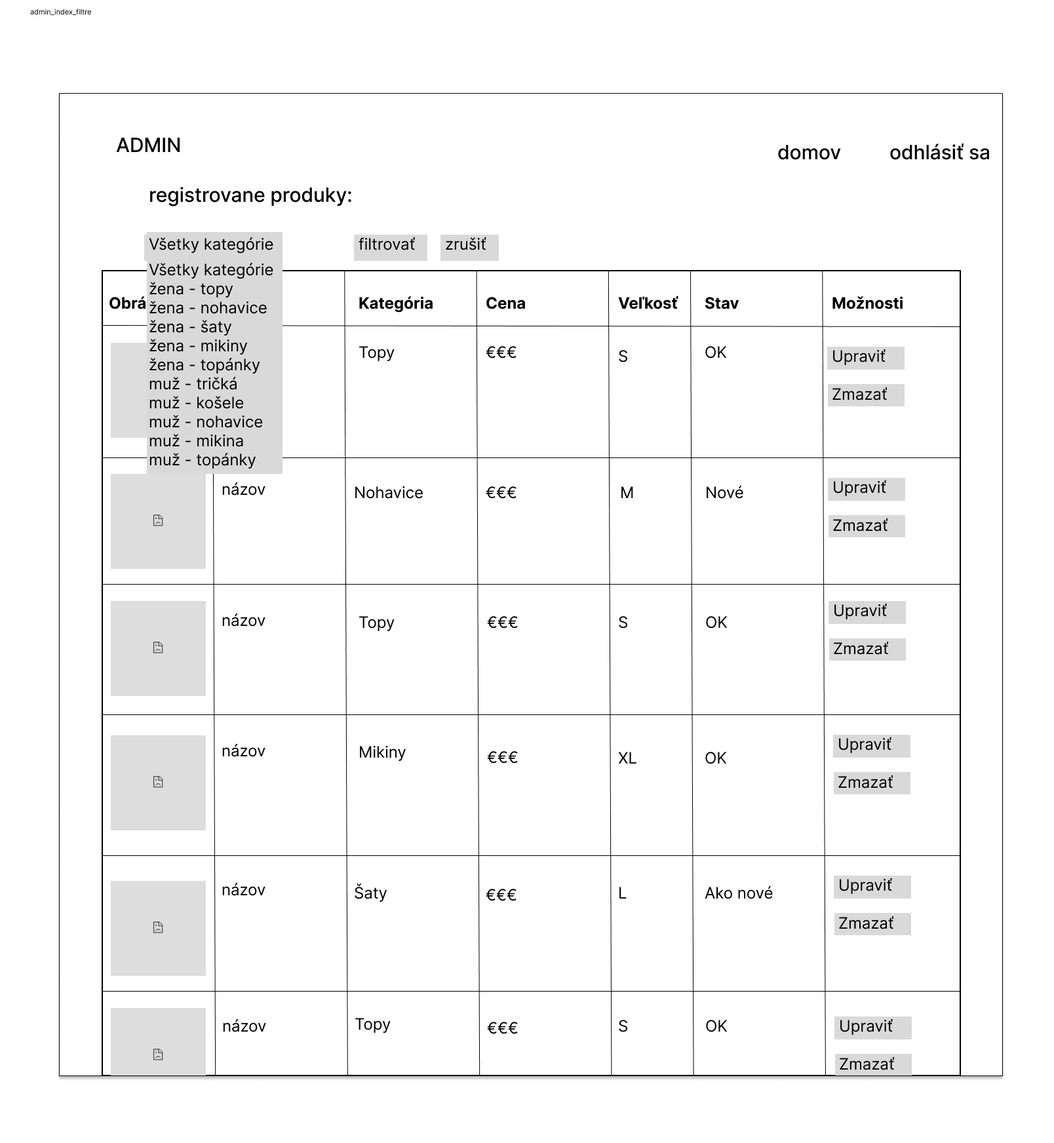
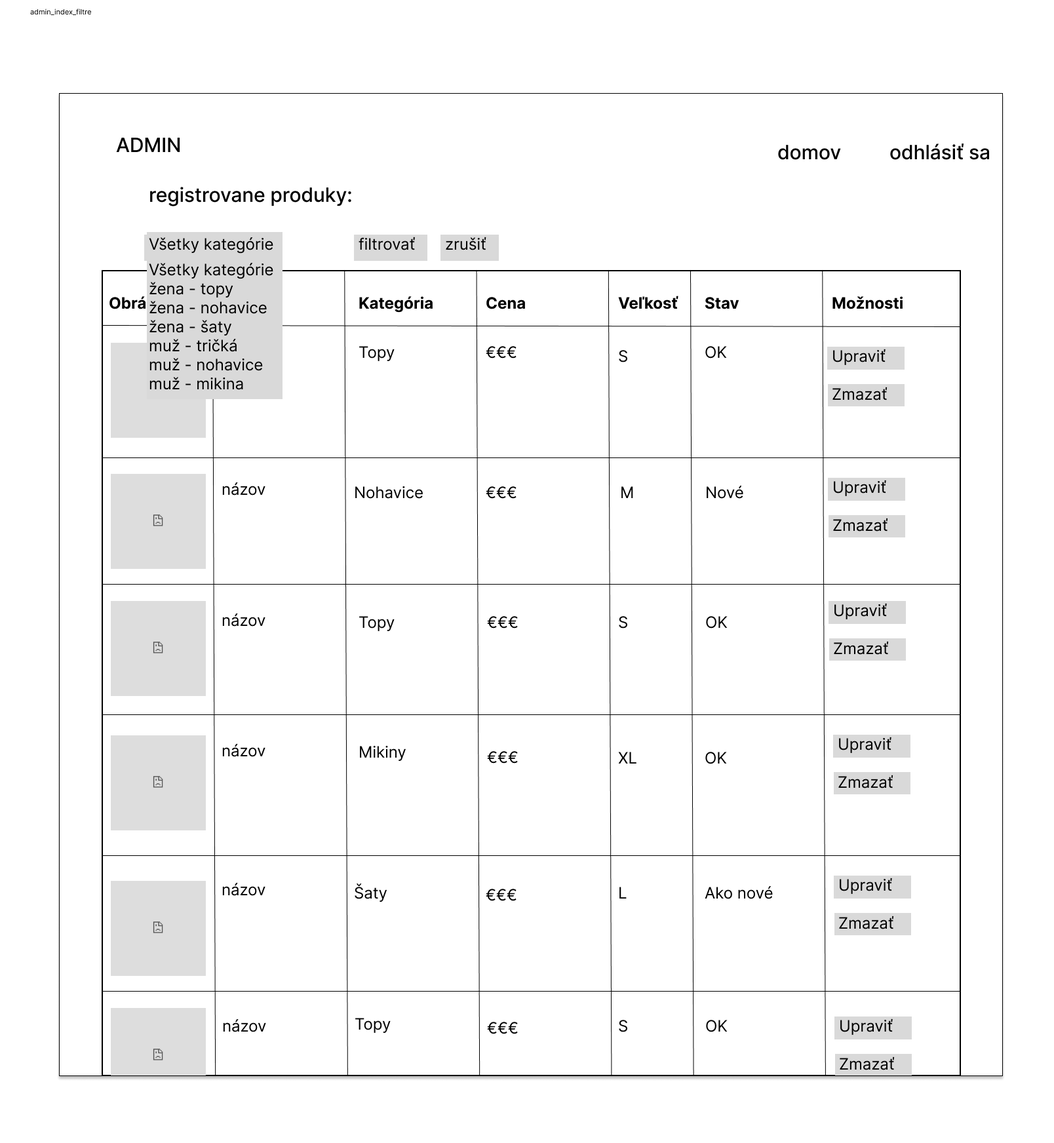
zmena - menej kategórií, zmené šablóny, úprava filtrov + min,max do filtru ceny

Changed region(s): [[0.1244, 0.2787, 0.2799, 0.4335]]

diff --git a/second_chance/resources/css/kosik.css b/second_chance/resources/css/kosik.css
@@ -110,25 +110,6 @@
   font-size: 15px;
 }
 
-.discount-code {
-  margin-top: 30px;
-  padding: 0 8px;
-  font-weight: bold;
-}
-
-.discount-code label {
-  margin-right: 8px;
-}
-
-.discount-code input {
-  background-color: #efece9b1;
-  border: 1px solid black;
-  min-height: 40px;
-  padding: 0 12px;
-  border-radius: 8px;
-  max-width: 220px;
-  width: 100%;
-}
 
 /* TABLET */
 @media (max-width: 1420px) {
@@ -213,13 +194,4 @@
     font-size: 16px;
   }
 
-  .discount-code {
-    padding: 0;
-  }
-
-  .discount-code input {
-    display: block;
-    max-width: 100%;
-    margin-top: 10px;
-  }
 }

diff --git a/second_chance/database/seeders/DatabaseSeeder.php b/second_chance/database/seeders/DatabaseSeeder.php
@@ -27,7 +27,7 @@ class DatabaseSeeder extends Seeder
         $this->call(KategoriaSeeder::class);
 
         $produkty = [
-            //žena - topy 1
+            //žena - topy - kategória 1
             ['nazov' => 'Tričko Nike', 'znacka' => 'Nike', 'kategoria_id' => 1, 'cena' => 7.90, 'velkost' => 'XS', 'farba' => 'biela', 'stav' => 'OK', 'obrazok' => 'obrazky/oblecenie_obrazky/tricko_nike.jpg',
             'miniatury' => [
                 'obrazky/oblecenie_obrazky/tricko_nike_mini_01.jpg',
@@ -67,7 +67,7 @@ class DatabaseSeeder extends Seeder
             ],
             'popis' => 'Štýlový hnedý kabát značky Mango s klasickým rovným strihom, ktorý nikdy nevyjde z módy. Kvalitný huňatý materiál poskytuje príjemné teplo aj v chladnejších dňoch bez toho, aby ste sa cítili stiesnene. Kabát má dvojradové zapínanie na gombíky, dve priestranné bočné vrecká a jemne štruktúrovaný povrch, ktorý pôsobí luxusným dojmom. Hodí sa rovnako dobre do práce aj na víkendový výlet. Nosený len niekoľkokrát, stav ako nový – bez akýchkoľvek poškodení, škvŕn či deformácií.'],
 
-            //žena - nohavice 2
+            //žena - nohavice - kategória 2
             ['nazov' => 'Rifle Levis', 'znacka' => 'Levis', 'kategoria_id' => 2, 'cena' => 22.00, 'velkost' => 'M', 'farba' => 'modrá', 'stav' => 'ako nové', 'obrazok' => 'obrazky/oblecenie_obrazky/rifle_levis.jpg',
             'miniatury' => [
                 'obrazky/oblecenie_obrazky/rifle_levis_mini_01.jpg',
@@ -86,7 +86,7 @@ class DatabaseSeeder extends Seeder
             ],
             'popis' => 'Dámske maskáčové nohavice Pull&Bear sú štýlový a pohodlný kúsok na každodenné nosenie. Príjemný materiál spolu s moderným strihom poskytuje komfort počas celého dňa. Nohavice majú praktické vrecká a maskáčový vzor dodáva outfitu trendy streetwear vzhľad. Jednoducho sa kombinujú s tričkom, mikinou alebo bundou. Používané, ale zachovalé vo veľmi dobrom stave – bez dier, fľakov alebo výrazného opotrebovania.'],
 
-            //žena - šaty 3
+            //žena - šaty - kategória 3
             ['nazov' => 'Šaty H&M', 'znacka' => 'H&M', 'kategoria_id' => 3, 'cena' => 12.00, 'velkost' => 'S', 'farba' => 'čierna', 'stav' => 'nové', 'obrazok' => 'obrazky/oblecenie_obrazky/saty_H&M.jpg',
             'miniatury' => [
                 'obrazky/oblecenie_obrazky/saty_H&M_mini_01.jpg',
@@ -105,37 +105,8 @@ class DatabaseSeeder extends Seeder
             ],
             'popis' => 'Dámske červené šaty H&M sú elegantný a výrazný kúsok vhodný na spoločenské udalosti aj bežné nosenie počas teplejších dní. Ľahký a príjemný materiál sa pohodlne nosí, zatiaľ čo ženský strih pekne zvýrazní postavu. Jednoduchý dizajn dopĺňa sýta červená farba, ktorá pôsobí štýlovo a ľahko sa kombinuje s doplnkami. Šaty sú používané, ale vo veľmi dobrom stave – bez dier, fľakov alebo výrazného opotrebovania.'],
 
-            //žena - mikiny 4
-            ['nazov' => 'Mikina Adidas', 'znacka' => 'Adidas', 'kategoria_id' => 4, 'cena' => 8.50, 'velkost' => 'S', 'farba' => 'modrá', 'stav' => 'použité', 'obrazok' => 'obrazky/oblecenie_obrazky/mikina_adidas.png',
-            'miniatury' => [
-                'obrazky/oblecenie_obrazky/mikina_adidas_mini_01.jpg',
-                'obrazky/oblecenie_obrazky/mikina_adidas_mini_02.jpg',
-                'obrazky/oblecenie_obrazky/mikina_adidas_mini_03.jpg',
-                'obrazky/oblecenie_obrazky/mikina_adidas_mini_04.jpg',
-            ],
-            'popis' => 'Pohodlná modrá mikina značky Adidas s charakteristickými troma pruhmi na rukávoch. Mäkký flísový materiál zvnútra zahreje a zároveň je dostatočne priedušný na aktívne nosenie počas celého dňa. Mikina má praktické vrecko vpredu a stahovateľnú kapucňu. Voľnejší strih umožňuje pohodlný pohyb pri športe aj relaxe. Modrá farba je svieža a ľahko sa kombinuje s čiernou, bielou aj sivou. Použitá, ale starostlivo udržiavaná – bez poškodení, dier ani vybliednutia.'],
-
-            ['nazov' => 'Mikina Reserved', 'znacka' => 'Reserved', 'kategoria_id' => 4, 'cena' => 10.90, 'velkost' => 'M', 'farba' => 'žltá', 'stav' => 'použité', 'obrazok' => 'obrazky/oblecenie_obrazky/mikina_reserved_zlta.png',
-            'miniatury' => [
-                'obrazky/oblecenie_obrazky/mikina_reserved_zlta_mini_01.png',
-                'obrazky/oblecenie_obrazky/mikina_reserved_zlta_mini_02.png',
-                'obrazky/oblecenie_obrazky/mikina_reserved_zlta_mini_03.png',
-                'obrazky/oblecenie_obrazky/mikina_reserved_zlta_mini_04.png',
-            ],
-            'popis' => 'Dámska žltá mikina Reserved je pohodlný a štýlový kúsok vhodný na každodenné nosenie. Mäkký materiál príjemne zahreje a zároveň poskytuje dostatok komfortu počas celého dňa. Mikina má klasický strih s kapucňou a predným vreckom, čo ju robí praktickou aj funkčnou. Výrazná žltá farba oživí každý outfit a ľahko sa kombinuje s džínsami alebo legínami. Používaná, ale zachovalá vo veľmi dobrom stave – bez dier, fľakov alebo výrazného opotrebovania.'],
-
-            //žena - topánky 5
-            ['nazov' => 'Topánky Vans', 'znacka' => 'Vans', 'kategoria_id' => 5, 'cena' => 15.90, 'velkost' => 'EU 38', 'farba' => 'zelená', 'stav' => 'ok', 'obrazok' => 'obrazky/oblecenie_obrazky/topanky_vans.jpg',
-            'miniatury' => [
-                'obrazky/oblecenie_obrazky/topanky_vans_mini_01.jpg',
-                'obrazky/oblecenie_obrazky/topanky_vans_mini_02.jpg',
-                'obrazky/oblecenie_obrazky/topanky_vans_mini_03.jpg',
-                'obrazky/oblecenie_obrazky/topanky_vans_mini_04.jpg',
-            ],
-            'popis' => 'Ikonické zelené tenisky značky Vans v klasickom modeli Old Skool s charakteristickým bočným pruhom. Pevná plátená časť a odolná gumová podrážka zaručujú dlhú životnosť a pohodlie pri každodennom nosení. Tenisky majú univerzálny streetwear štýl, ktorý sa hodí k rifľam, šatám, šortkám aj sukni. Zelená farba je originálna a vyčnieva z davu. Vnútorná stielka poskytuje príjemné tlmenie pri chôdzi. Použité v dobrom stave – podrážka neopotrebovaná.'],
-
-            //muž - tričká 6
-            ['nazov' => 'Tričko Nike', 'znacka' => 'Nike', 'kategoria_id' => 6, 'cena' => 9.90, 'velkost' => 'L', 'farba' => 'biela', 'stav' => 'ako nové', 'obrazok' => 'obrazky/oblecenie_obrazky/tricko_nike.jpg',
+            //muž - tričká - kategória 4
+            ['nazov' => 'Tričko Nike', 'znacka' => 'Nike', 'kategoria_id' => 4, 'cena' => 9.90, 'velkost' => 'L', 'farba' => 'biela', 'stav' => 'ako nové', 'obrazok' => 'obrazky/oblecenie_obrazky/tricko_nike.jpg',
             'miniatury' => [
                 'obrazky/oblecenie_obrazky/tricko_nike_mini_01.jpg',
                 'obrazky/oblecenie_obrazky/tricko_nike_mini_02.jpg',
@@ -144,27 +115,8 @@ class DatabaseSeeder extends Seeder
             ],
             'popis' => 'Pánske biele tričko Nike s veľkým logom na hrudi – klasický kúsok, ktorý nechýba v šatníku žiadneho muža. Ľahký priedušný materiál odvádza vlhkosť od tela čo ho robí ideálnym na šport aj bežné nosenie. Strih regular fit poskytuje dostatok priestoru pre pohodlný pohyb bez toho, aby tričko pôsobilo príliš voľne. Okrúhly výstrih je klasický a vždy moderný. Hodí sa k akýmkoľvek nohaviciam – rifľam, teplákom aj kraťasom. Stav ako nové – minimálne nosené, bez akýchkoľvek poškodení alebo vybliednutia.'],
 
-            //muž - košele 7
-            ['nazov' => 'Tričko Nike', 'znacka' => 'Nike', 'kategoria_id' => 7, 'cena' => 7.90, 'velkost' => 'M', 'farba' => 'biela', 'stav' => 'OK', 'obrazok' => 'obrazky/oblecenie_obrazky/tricko_nike.jpg',
-            'miniatury' => [
-                'obrazky/oblecenie_obrazky/tricko_nike_mini_01.jpg',
-                'obrazky/oblecenie_obrazky/tricko_nike_mini_02.jpg',
-                'obrazky/oblecenie_obrazky/tricko_nike_mini_03.jpg',
-                'obrazky/oblecenie_obrazky/tricko_nike_mini_04.jpg',
-            ],
-            'popis' => 'Jednoduché biele tričko Nike vhodné na každodenné nosenie aj ľahký šport. Kvalitná bavlna je mäkká na dotyk a zároveň odolná voči opakovanému praniu bez straty tvaru či farby. Klasický strih s okrúhlym výstrihom a krátkymi rukávmi je nadčasový a hodí sa ku všetkému. Malé logo Nike na hrudi pôsobí diskrétne a elegantne. Neutrálna biela farba je vždy vhodná a ľahko sa kombinuje s čímkoľvek v šatníku. Zachovaný v OK stave – po vypraní bez škvŕn alebo poškodení.'],
-
-            ['nazov' => 'Košeľa Zara Man', 'znacka' => 'Zara Man', 'kategoria_id' => 7, 'cena' => 8.90, 'velkost' => 'M', 'farba' => 'biela', 'stav' => 'použité', 'obrazok' => 'obrazky/oblecenie_obrazky/kosela_zara_man.png',
-            'miniatury' => [
-                'obrazky/oblecenie_obrazky/kosela_zara_man_mini_01.png',
-                'obrazky/oblecenie_obrazky/kosela_zara_man_mini_02.png',
-                'obrazky/oblecenie_obrazky/kosela_zara_man_mini_03.png',
-                'obrazky/oblecenie_obrazky/kosela_zara_man_mini_04.png',
-            ],
-            'popis' => 'Pánska biela košeľa Zara Man s dlhým rukávom je univerzálny kúsok vhodný na formálnejšie aj bežné nosenie. Príjemný materiál sa pohodlne nosí počas celého dňa a klasický strih dobre sedí na postave. Jednoduchý dizajn dopĺňa golier a zapínanie na gombíky, vďaka čomu sa ľahko kombinuje s nohavicami aj džínsami. Košeľa je používaná, ale zachovalá v dobrom stave – bez dier, fľakov alebo výrazného poškodenia.'],
-
-            //muž - nohavice 8
-            ['nazov' => 'Rifle Levis', 'znacka' => 'Levis', 'kategoria_id' => 8, 'cena' => 15.50, 'velkost' => 'XL', 'farba' => 'modrá', 'stav' => 'dobré', 'obrazok' => 'obrazky/oblecenie_obrazky/rifle_levis.jpg',
+            //muž - nohavice - kategória 5
+            ['nazov' => 'Rifle Levis', 'znacka' => 'Levis', 'kategoria_id' => 5, 'cena' => 15.50, 'velkost' => 'XL', 'farba' => 'modrá', 'stav' => 'dobré', 'obrazok' => 'obrazky/oblecenie_obrazky/rifle_levis.jpg',
             'miniatury' => [
                 'obrazky/oblecenie_obrazky/rifle_levis_mini_01.jpg',
                 'obrazky/oblecenie_obrazky/rifle_levis_mini_02.jpg',
@@ -173,7 +125,7 @@ class DatabaseSeeder extends Seeder
             ],
             'popis' => 'Pánske modré rifle Levis vo veľkosti XL s rovným klasickým strihom, ktorý poskytuje dostatok priestoru pre pohodlný pohyb počas celého dňa. Odolný denim materiál je zárukou dlhej životnosti a charakteristického štýlu tejto legendárnej značky. Kovové nity a charakteristický kožený štítok Levis sú znakom kvality. Modrá farba je univerzálna a hodí sa k akémukoľvek vrchnému oblečeniu. Nosené, ale zachované v dobrom stave – bez výrazného opotrebovania, trhlín alebo škvŕn.'],
 
-            ['nazov' => 'Nohavice Pull&Bear', 'znacka' => 'Pull&Bear', 'kategoria_id' => 8, 'cena' => 11.50, 'velkost' => 'M', 'farba' => 'zelená', 'stav' => 'použité', 'obrazok' => 'obrazky/oblecenie_obrazky/nohavice_pullbear_maskac.png',
+            ['nazov' => 'Nohavice Pull&Bear', 'znacka' => 'Pull&Bear', 'kategoria_id' => 5, 'cena' => 11.50, 'velkost' => 'M', 'farba' => 'zelená', 'stav' => 'použité', 'obrazok' => 'obrazky/oblecenie_obrazky/nohavice_pullbear_maskac.png',
             'miniatury' => [
                 'obrazky/oblecenie_obrazky/nohavice_pullbear_maskac_mini_01.png',
                 'obrazky/oblecenie_obrazky/nohavice_pullbear_maskac_mini_02.png',
@@ -182,8 +134,8 @@ class DatabaseSeeder extends Seeder
             ],
             'popis' => 'Pánske maskáčové nohavice Pull&Bear sú štýlový a pohodlný kúsok na každodenné nosenie. Odolný materiál spolu s praktickým strihom poskytuje dostatok komfortu aj pri dlhšom nosení. Nohavice majú viacero vreciek, čo zvyšuje ich praktickosť, a moderný maskáčový vzor dodáva outfitu výrazný streetwear vzhľad. Používané, ale zachovalé v dobrom stave – bez dier, fľakov alebo výrazného opotrebovania.'],
 
-            //muž - mikiny 9
-            ['nazov' => 'Mikina Adidas', 'znacka' => 'Adidas', 'kategoria_id' => 9, 'cena' => 10.50, 'velkost' => 'L', 'farba' => 'modrá', 'stav' => 'použité', 'obrazok' => 'obrazky/oblecenie_obrazky/mikina_adidas.png',
+            //muž - mikiny - kategória 6
+            ['nazov' => 'Mikina Adidas', 'znacka' => 'Adidas', 'kategoria_id' => 6, 'cena' => 10.50, 'velkost' => 'L', 'farba' => 'modrá', 'stav' => 'použité', 'obrazok' => 'obrazky/oblecenie_obrazky/mikina_adidas.png',
             'miniatury' => [
                 'obrazky/oblecenie_obrazky/mikina_adidas_mini_01.jpg',
                 'obrazky/oblecenie_obrazky/mikina_adidas_mini_02.jpg',
@@ -192,7 +144,7 @@ class DatabaseSeeder extends Seeder
             ],
             'popis' => 'Pánska modrá mikina Adidas s predným zipsom a kapucňou – praktický kúsok na každú príležitosť. Teplý materiál s mäkkou vnútornou stranou zahreje v chladnejšom počasí a zároveň umožňuje pohodlný pohyb. Predné vrecko je praktické na každodenné nosenie. Charakteristické tri pruhy Adidas dodávajú mikine športový štýl. Použitá a udržiavaná v dobrom stave – bez poškodení, dier alebo výrazného opotrebovania.'],
 
-            ['nazov' => 'Mikina Reserved', 'znacka' => 'Reserved', 'kategoria_id' => 9, 'cena' => 10.90, 'velkost' => 'M', 'farba' => 'žltá', 'stav' => 'použité', 'obrazok' => 'obrazky/oblecenie_obrazky/mikina_reserved_zlta.png',
+            ['nazov' => 'Mikina Reserved', 'znacka' => 'Reserved', 'kategoria_id' => 6, 'cena' => 10.90, 'velkost' => 'M', 'farba' => 'žltá', 'stav' => 'použité', 'obrazok' => 'obrazky/oblecenie_obrazky/mikina_reserved_zlta.png',
             'miniatury' => [
                 'obrazky/oblecenie_obrazky/mikina_reserved_zlta_mini_01.png',
                 'obrazky/oblecenie_obrazky/mikina_reserved_zlta_mini_02.png',
@@ -200,16 +152,6 @@ class DatabaseSeeder extends Seeder
                 'obrazky/oblecenie_obrazky/mikina_reserved_zlta_mini_04.png',
             ],
             'popis' => 'Pánska žltá mikina Reserved je pohodlný a praktický kúsok vhodný na každodenné nosenie. Príjemný materiál poskytuje komfort počas celého dňa a zároveň dobre drží tvar. Mikina má klasický strih s kapucňou a predným vreckom, čo zvyšuje jej funkčnosť. Výrazná žltá farba dodáva outfitu energiu a ľahko sa kombinuje s džínsami alebo teplákmi. Používaná, ale zachovalá vo veľmi dobrom stave – bez dier, fľakov alebo výrazného opotrebovania.'],
-
-            //muž - topánky 10
-            ['nazov' => 'Topánky Vans', 'znacka' => 'Vans', 'kategoria_id' => 10, 'cena' => 15.90, 'velkost' => 'EU 42', 'farba' => 'zelená', 'stav' => 'ok', 'obrazok' => 'obrazky/oblecenie_obrazky/topanky_vans.jpg',
-            'miniatury' => [
-                'obrazky/oblecenie_obrazky/topanky_vans_mini_01.jpg',
-                'obrazky/oblecenie_obrazky/topanky_vans_mini_02.jpg',
-                'obrazky/oblecenie_obrazky/topanky_vans_mini_03.jpg',
-                'obrazky/oblecenie_obrazky/topanky_vans_mini_04.jpg',
-            ],
-            'popis' => 'Pánske zelené tenisky Vans v obľúbenom modeli s plochou gumovou podrážkou – symbol skateboardovej kultúry, ktorý sa stal módnou ikonou po celom svete. Odolná podrážka zaručujú spoľahlivosť pri každodennom nosení. Univerzálny streetwear štýl sa hodí k rifľam, teplákom aj šortkám. Zelená farba je originálna voľba, ktorá oživí akýkoľvek outfit. Klasické šnurovanie umožňuje prispôsobiť tesnosť podľa potreby. Použité v OK stave – podrážka funkčná.'],
         ];
 
         //pre každý produkt sa vytvorí záznam v databáze

diff --git a/second_chance/resources/views/zoznam_produktov.blade.php b/second_chance/resources/views/zoznam_produktov.blade.php
@@ -148,7 +148,7 @@
                                         <div class="filter-group">
                                             <span class="filter-title">Podľa veľkosti</span>
                                             <div class="filter-options">
-                                                @foreach(['XS','S','M','L','XL','EU 38','EU 39','EU 40','EU 41','EU 42','EU 43','EU 44'] as $vel)
+                                                @foreach(['XS','S','M','L','XL'] as $vel)
                                                     <label>
                                                         <input type="checkbox" name="velkost[]" value="{{ $vel }}"
                                                             {{ in_array($vel, request('velkost', [])) ? 'checked' : '' }}
@@ -161,12 +161,15 @@
 
                                         <div class="filter-group">
                                             <span class="filter-title">Podľa ceny</span>
+                                            <div class="price-range-info">
+                                                <small>Dostupné: {{ number_format($min_cena, 2, ',', ' ') }} € - {{ number_format($max_cena, 2, ',', ' ') }} €</small>
+                                            </div>
                                             <div class="filter-options">
-                                                <input type="number" name="min_cena" placeholder="Od (€)"
-                                                    class="price-input" value="{{ request('min_cena') }}">
+                                                <input type="number" name="min_cena" placeholder="Od ({{ request('min_cena', $min_cena) }}€)" step="0.01"
+                                                    class="price-input" value="{{ request('min_cena', $min_cena) }}" min="{{ $min_cena }}" max="{{ $max_cena }}">
                                                 <span> - </span>
-                                                <input type="number" name="max_cena" placeholder="Do (€)"
-                                                    class="price-input" value="{{ request('max_cena') }}">
+                                                <input type="number" name="max_cena" placeholder="Do ({{ request('max_cena', $max_cena) }}€)" step="0.01"
+                                                    class="price-input" value="{{ request('max_cena', $max_cena) }}" min="{{ $min_cena }}" max="{{ $max_cena }}">
                                                 <button type="submit" class="price-apply-btn">potvrdiť</button>
                                             </div>
                                         </div>
@@ -174,7 +177,7 @@
                                         <div class="filter-group">
                                             <span class="filter-title">Podľa farby</span>
                                             <div class="filter-options">
-                                                @foreach(['čierna','biela','béžová','hnedá','červená','fialová','ružová','modrá','žltá','oranžová','zelená'] as $farba)
+                                                @foreach(['čierna','biela','hnedá','modrá','červená'] as $farba)
                                                     <label>
                                                         <input type="checkbox" name="farba[]" value="{{ $farba }}"
                                                             {{ in_array($farba, request('farba', [])) ? 'checked' : '' }}

diff --git a/second_chance/resources/views/index.blade.php b/second_chance/resources/views/index.blade.php
@@ -76,27 +76,20 @@
 
     <main class="category">
       <aside class="sidebar">
+          @foreach(['žena', 'muž'] as $pohlavie)
           <div class="category-group">
-              <h2><a href="{{ route('produkty.index', ['pohlavie' => 'žena']) }}">žena</a></h2>
+              <h2><a href="{{ route('produkty.index', ['pohlavie' => $pohlavie]) }}">{{ $pohlavie }}</a></h2>
               <ul>
-                  <li><a href="{{ route('produkty.index', ['kategoria' => 1]) }}">Topy</a></li>
-                  <li><a href="{{ route('produkty.index', ['kategoria' => 2]) }}">Nohavice</a></li>
-                  <li><a href="{{ route('produkty.index', ['kategoria' => 3]) }}">Šaty</a></li>
-                  <li><a href="{{ route('produkty.index', ['kategoria' => 4]) }}">Mikiny</a></li>
-                  <li><a href="{{ route('produkty.index', ['kategoria' => 5]) }}">Topánky</a></li>
+                  @foreach($kategorie->where('pohlavie', $pohlavie) as $kat)
+                  <li>
+                      <a href="{{ route('produkty.index', ['kategoria' => $kat->id]) }}">
+                          {{ $kat->nazov }}
+                      </a>
+                  </li>
+                  @endforeach
               </ul>
           </div>
-
-          <div class="category-group">
-              <h2><a href="{{ route('produkty.index', ['pohlavie' => 'muž']) }}">muž</a></h2>
-              <ul>
-                  <li><a href="{{ route('produkty.index', ['kategoria' => 6]) }}">Tričká</a></li>
-                  <li><a href="{{ route('produkty.index', ['kategoria' => 7]) }}">Košele</a></li>
-                  <li><a href="{{ route('produkty.index', ['kategoria' => 8]) }}">Nohavice</a></li>
-                  <li><a href="{{ route('produkty.index', ['kategoria' => 9]) }}">Mikiny</a></li>
-                  <li><a href="{{ route('produkty.index', ['kategoria' => 10]) }}">Topánky</a></li>
-              </ul>
-          </div>
+          @endforeach
       </aside>
 
       <section class="content">

diff --git a/second_chance/app/Http/Controllers/ProduktController.php b/second_chance/app/Http/Controllers/ProduktController.php
@@ -40,10 +40,15 @@ class ProduktController extends Controller
             default     => $query->orderBy('created_at', 'desc'),
         };
 
-        $produkty  = $query->paginate(24)->withQueryString();
+        $produkty  = $query->paginate(12)->withQueryString();
         $kategorie = Kategoria::whereNull('parent_id')->with('podkategorie')->get();
+        
+        // Získanie min a max ceny z dostupných produktov
+        $cenyStats = Produkt::where('dostupnost', true)->selectRaw('MIN(cena) as min_cena, MAX(cena) as max_cena')->first();
+        $min_cena = $cenyStats->min_cena ?? 0;
+        $max_cena = $cenyStats->max_cena ?? 0;
 
-        return view('zoznam_produktov', compact('produkty', 'kategorie'));
+        return view('zoznam_produktov', compact('produkty', 'kategorie', 'min_cena', 'max_cena'));
     }
 
     //zobrazenie detailného popisu o produkte podľa ID
@@ -87,11 +92,16 @@ class ProduktController extends Controller
                     ->orWhere('popis', 'like', '%' . $search . '%')
                     ->orWhere('farba', 'like', '%' . $search . '%');
             })
-            ->paginate(24)
+            ->paginate(12)
             ->withQueryString();
 
         $kategorie = Kategoria::whereNull('parent_id')->with('podkategorie')->get();
+        
+        // Získanie min a max ceny z dostupných produktov
+        $cenyStats = Produkt::where('dostupnost', true)->selectRaw('MIN(cena) as min_cena, MAX(cena) as max_cena')->first();
+        $min_cena = $cenyStats->min_cena ?? 0;
+        $max_cena = $cenyStats->max_cena ?? 0;
 
-        return view('zoznam_produktov', compact('produkty', 'kategorie'));
+        return view('zoznam_produktov', compact('produkty', 'kategorie', 'min_cena', 'max_cena'));
     }
 }

diff --git a/second_chance/database/seeders/KategoriaSeeder.php b/second_chance/database/seeders/KategoriaSeeder.php
@@ -15,13 +15,9 @@ class KategoriaSeeder extends Seeder
         ['nazov' => 'Topy', 'pohlavie' => 'žena'],
         ['nazov' => 'Nohavice', 'pohlavie' => 'žena'],
         ['nazov' => 'Šaty', 'pohlavie' => 'žena'],
-        ['nazov' => 'Mikiny', 'pohlavie' => 'žena'],
-        ['nazov' => 'Topánky', 'pohlavie' => 'žena'],
         ['nazov' => 'Tričká', 'pohlavie' => 'muž'],
-        ['nazov' => 'Košele', 'pohlavie' => 'muž'],
         ['nazov' => 'Nohavice', 'pohlavie' => 'muž'],
         ['nazov' => 'Mikiny', 'pohlavie' => 'muž'],
-        ['nazov' => 'Topánky', 'pohlavie' => 'muž'],
     ];
 
     //pre každú vytvorí aj záznam v databáze

diff --git a/second_chance/app/Http/Controllers/IndexController.php b/second_chance/app/Http/Controllers/IndexController.php
@@ -4,6 +4,7 @@ namespace App\Http\Controllers;
 
 use Illuminate\Http\Request;
 use App\Models\Produkt;
+use App\Models\Kategoria;
 
 class IndexController extends Controller
 {
@@ -16,6 +17,8 @@ class IndexController extends Controller
             ->take(6)
             ->get();
 
-        return view('index', compact('novinky'));
+        $kategorie = Kategoria::all();
+
+        return view('index', compact('novinky', 'kategorie')); 
     }
 }

diff --git a/second_chance/resources/views/kosik.blade.php b/second_chance/resources/views/kosik.blade.php
@@ -131,11 +131,6 @@
                         <p>Košík je prázdny.</p>
                     @endforelse
 
-                    <section class="discount-code">
-                        <label for="discount">uplatniť kód:</label>
-                        <input type="text" id="discount" name="discount" placeholder="........">
-                    </section>
-
                 </section>
 
                 <section class="order-summary">
